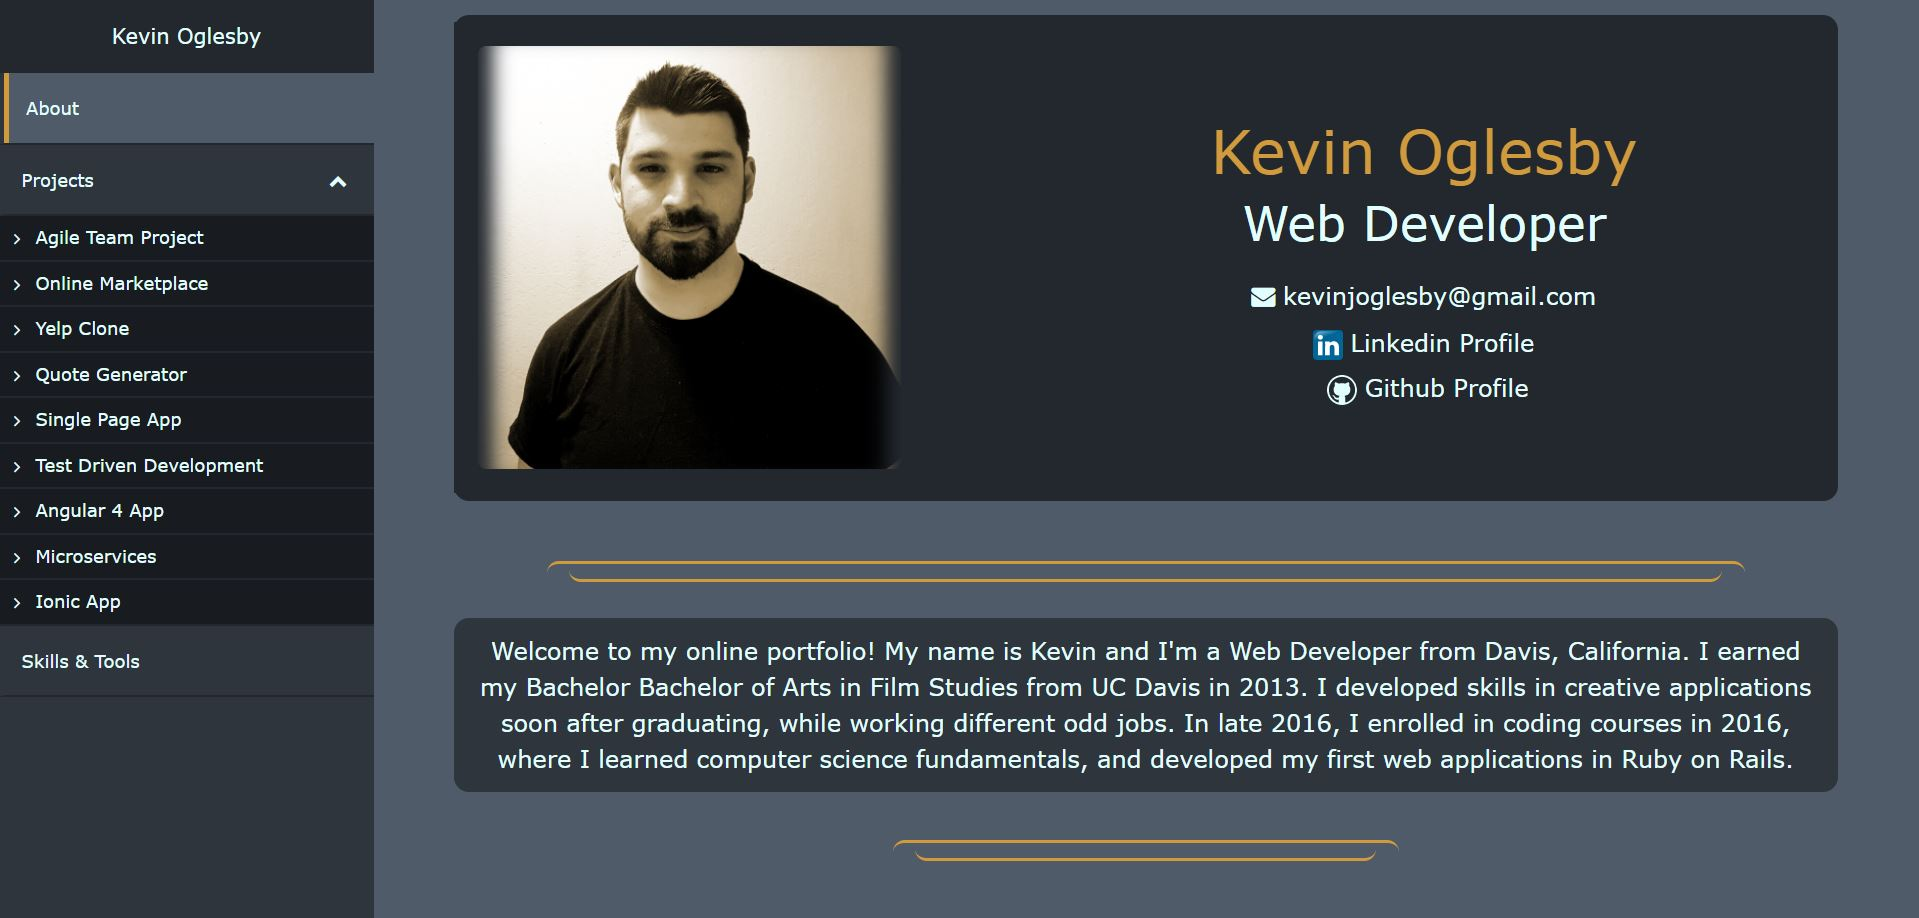
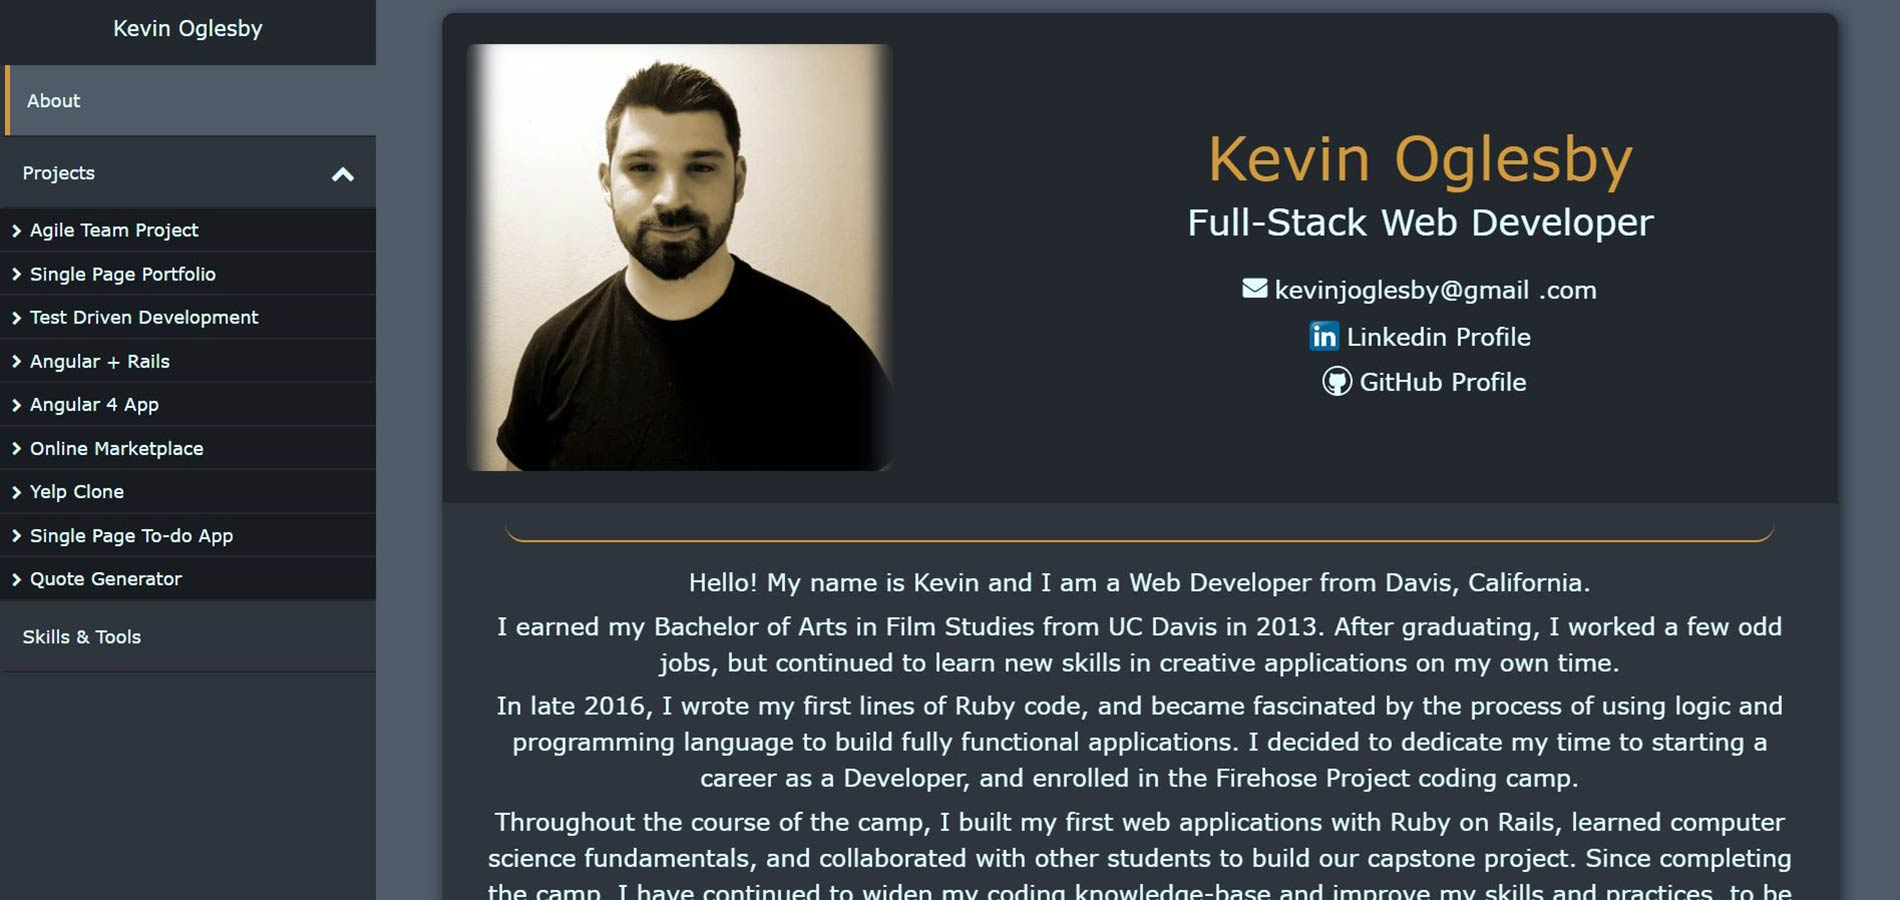
fixed typos, re-wrote bio

diff --git a/src/app/projects/project.service.ts b/src/app/projects/project.service.ts
@@ -22,6 +22,43 @@ export class ProjectService {
       'http://chess-app-8th-rank-pawns.herokuapp.com'
     ),
     new Project(
+      'Single Page Portfolio',
+      "You're looking at this app right now! Whoa, so meta! This app was built from scratch using the Angular 4 framework" +
+      " and features a responsive design which incorporates Angular animations, " +
+      "and makes use of observables and services in order to pass data between components" +
+      " and allow for simple project additions and edits.",
+      '../assets/portfolio.jpg',
+      'https://github.com/koglesby/ng-portfolio',
+      ''
+    ),
+    new Project(
+      'Test Driven Development',
+      'An Instagram clone that was built using industry-standard, test-driven ' +
+      'development following numerous red/green/refactor cycles.',
+      '../assets/grammable.jpg',
+      'https://github.com/koglesby/grammable',
+      'http://grammable-kevin-oglesby.herokuapp.com/'
+    ),
+    new Project(
+      'Angular + Rails',
+      'A freelancing app which combines the Angular front-end framework ' +
+      'with two Rails 5 API apps functioning as a backend. This architecture allows for' +
+      ' automatic updates of page elements without page refresh, while' +
+      ' leveraging the power and flexibility of the Rails.',
+      '../assets/freelance-camp.jpg',
+      'https://github.com/koglesby/freelance-camp',
+      'http://koglesby-freelance-camp.herokuapp.com/home'
+    ),
+    new Project(
+      'Angular 4 App',
+      'A single-page application built using the Angular 4 framework. ' +
+      'Integrated with Firebase to store and retrieve recipe and ' +
+      'shopping list data in real time.',
+      '../assets/reciperoost.jpg',
+      'https://github.com/koglesby/reciperoost',
+      'http://ng-reciperoost-deployment.s3-website-us-west-1.amazonaws.com/'
+    ),
+    new Project(
       'Online Marketplace',
       'A two-sided, video-streaming marketplace platform that' +
       ' features credit card payment capabilities, user role' +
@@ -41,16 +78,7 @@ export class ProjectService {
       'http://nomly-kevin-oglesby.herokuapp.com'
     ),
     new Project(
-      'Quote Generator',
-      'A database-powered quote generator with a mobile-first' +
-      ' design, using the Ruby on Rails framework, HTML, and CSS.' +
-      'Uses Git and GitHub for version control, and launched on Heroku.',
-      '../assets/splurty.png',
-      'https://github.com/koglesby/splurty',
-      'http://splurty-kevin-oglesby.herokuapp.com/'
-    ),
-    new Project(
-      'Single Page App',
+      'Single Page To-do App',
       'This single-page to-do application features a ' +
       'fluid user interface that allows users to rapidly add' +
       ' dynamic content by using JavaScript.',
@@ -59,48 +87,24 @@ export class ProjectService {
       'http://todo-kevin-oglesby.herokuapp.com'
     ),
     new Project(
-      'Test Driven Development',
-      'An Instagram clone that was built using industry-standard, test-driven ' +
-      'development following numerous red/green/refactor cycles.',
-      '../assets/grammable.jpg',
-      'https://github.com/koglesby/grammable',
-      'http://grammable-kevin-oglesby.herokuapp.com/'
-    ),
-    new Project(
-      'Angular 4 App',
-      'A single-page application built using the Angular 4 framework. ' +
-      'Integrated with firebase to store and retrieve recipe and ' +
-      'shopping list data in real time.',
-      '../assets/reciperoost.png',
-      'https://github.com/koglesby/reciperoost',
-      'http://ng-reciperoost-deployment.s3-website-us-west-1.amazonaws.com/'
-    ),
-    new Project(
-      'Microservices',
-      'This project has a front end which was build using the Angular 4 framework' +
-      'and integrates with rails microservices. It is sort of an outline. It uses' +
-      'both client-side and server-side validation',
-      '../assets/freelance-camp.jpg',
-      'https://github.com/koglesby/freelance-camp',
-      'http://koglesby-freelance-camp.herokuapp.com/home'
-    ),
-    new Project(
-      'Ionic App',
-      'This project was built using the Ionic framework, and uses firebase, ' +
-      'and has been compiled into an apk',
-      '../assets/reciperoost-mobile.png',
-      'https://github.com/koglesby/reciperoost-mobile',
-      ''
-    ),
-    new Project(
-      'Single Page Portfolio',
-      "You're looking at this app right now! Whoa, so meta! This app was built from scratch using the Angular 4 framework" +
-      " and incorporates Angular animations, makes use of services in order to pass data to different components, " +
-      "and easily add new projects.",
-      '../assets/portfolio.jpg',
-      'https://github.com/koglesby/ng-portfolio',
-      ''
+      'Quote Generator',
+      'This is the first full Web App that I built. It is a database-powered quote generator with a mobile-first' +
+      ' design, using the Ruby on Rails framework, HTML, and CSS. ' +
+      ' It uses Git and GitHub for version control, and was launched on Heroku.',
+      '../assets/splurty.png',
+      'https://github.com/koglesby/splurty',
+      'http://splurty-kevin-oglesby.herokuapp.com/'
     )
+
+    // new Project(
+    //   'Ionic App',
+    //   'This project was built using the Ionic framework, and uses firebase, ' +
+    //   'and has been compiled into an apk',
+    //   '../assets/reciperoost-mobile.png',
+    //   'https://github.com/koglesby/reciperoost-mobile',
+    //   ''
+    // ),
+
   ];
   
   getProjectsLength() {

diff --git a/src/app/about/about.component.html b/src/app/about/about.component.html
@@ -13,7 +13,8 @@
           </h1>
           <h4>Full-Stack Web Developer</h4>
           <a href="mailto:kevinjoglesby@gmail.com">
-            <i class="fa fa-envelope" aria-hidden="true" style="height: 20px; margin:5px"></i>kevinjoglesby@gmail.com</a>
+            <i class="fa fa-envelope" aria-hidden="true"
+               style="height: 20px; margin:5px"></i>kevinjoglesby@gmail.com</a>
           <br/>
           <a href="https://www.linkedin.com/in/kevin-oglesby-8048aa68/">
             <img src="../../assets/linkedin.svg" style="height: 20px; margin:5px">Linkedin Profile</a>
@@ -27,18 +28,30 @@
 
   <div class="bio-container text-center">
     <hr class="col-11 fancy-rule"/>
+    <!--<p>-->
+      <!--Welcome to my portfolio!-->
+    <!--</p>-->
     <p>
-      Welcome to my portfolio!
+      Hello! My name is Kevin and I am a Web Developer from Davis, California.
+      </p>
+    <p>
+      I earned my Bachelor of Arts in Film Studies from UC Davis in 2013. After graduating,
+      I worked a few odd jobs, but continued to learn new skills in creative applications
+      on my own time.
+      </p>
+    <p>
+      In late 2016, I wrote my first lines of Ruby code, and became fascinated by the process
+      of using logic and programming language to build fully functional applications. I decided to
+      dedicate my time to starting a career as a Developer, and enrolled in the
+      <a href="https://www.thefirehoseproject.com">Firehose Project</a> coding camp.
     </p>
     <p>
-      Earned BA in Film Studies from UC Davis in 2013. I learned several applications from Adobe Creative Suite,
-      as well as some music production software (as a hobby) while I worked unrelated jobs.
-      In late 2016, I wrote my first few lines of Ruby code, and decided to dedicate my time to become a
-      Web Developer. I enrolled in the Firehose Project coding camp, where I created my first Web Apps in
-      Ruby on Rails, learned computer science fundamentals, and collaborated with other students to
-      build our capstone project. Since completing the camp, I have continued to *widen my
-      knowledge-base and improve my skills*, getting to know the Angular front-end framework, more
-      practice with javascript and tools such as Firebase.
+      Throughout the course of the camp, I built my first web applications with
+      Ruby on Rails, learned computer science fundamentals, and collaborated with
+      other students to build our capstone project.
+      Since completing the camp, I have continued to widen my coding knowledge-base
+      and improve my skills and practices, to be best equipped solve problems, write
+      clean effective code, and build awesome applications.
     </p>
     <hr class="col-11 fancy-rule-end"/>
   </div>

diff --git a/src/app/skills/skills.component.html b/src/app/skills/skills.component.html
@@ -28,6 +28,7 @@
         </div>
       </div>
     </div>
+    <br/>
     <div class="row align-items-start">
       <div class="col">
         <img src="../../assets/ruby-on-rails.svg" style="width: 80px; margin-top: 10px; margin-bottom: 10px" >
@@ -80,19 +81,20 @@
 
   <div class="icon-container">
     <div class="row align-items-start design">
-      <div class="col-sm-3 col-6">
+      <div class="col-sm-3 col-6"  style="margin-bottom: 8px;">
         <img src="../../assets/photoshop-icon.svg">
         <div>
           Photoshop
         </div>
       </div>
-      <div class="col-sm-3 col-6">
+      <div class="col-sm-3 col-6" >
         <img src="../../assets/adobe-illustrator-icon.svg">
         <div>
           Adobe Illustrator
         </div>
       </div>
-      <div class="col-sm-3 col-6">
+
+      <div class="col-sm-3 col-6" style="margin-bottom: 5px;">
         <img src="../../assets/after-effects-icon.svg">
         <div>
           After Effects

diff --git a/src/app/app.module.ts b/src/app/app.module.ts
@@ -2,7 +2,6 @@ import { BrowserModule } from '@angular/platform-browser';
 import { NgModule } from '@angular/core';
 import { FormsModule } from '@angular/forms';
 import { HttpModule } from '@angular/http';
-import { NgbModule } from '@ng-bootstrap/ng-bootstrap';
 
 import { AppComponent } from './app.component';
 import { SidebarComponent } from './sidebar/sidebar.component';
@@ -43,7 +42,6 @@ const appRoutes: Routes = [
     FormsModule,
     HttpModule,
     RouterModule.forRoot(appRoutes),
-    NgbModule.forRoot(),
     BrowserAnimationsModule
   ],
   providers: [ProjectService],

diff --git a/src/app/about/about.component.ts b/src/app/about/about.component.ts
@@ -1,13 +1,10 @@
 import { Component, OnInit } from '@angular/core';
-import { routerTransition } from '../projects/router.animations';
+// import { routerTransition } from '../projects/router.animations';
 
 @Component({
   selector: 'app-about',
   templateUrl: './about.component.html',
-  styleUrls: ['./about.component.css'],
-  animations: [
-    routerTransition(),
-  ]
+  styleUrls: ['./about.component.css']
 })
 export class AboutComponent implements OnInit {
 

diff --git a/src/app/projects/projects.component.ts b/src/app/projects/projects.component.ts
@@ -1,13 +1,10 @@
 import { Component, OnInit } from '@angular/core';
-import { routerTransition } from './router.animations';
+// import { routerTransition } from './router.animations';
 
 @Component({
   selector: 'app-projects',
   templateUrl: './projects.component.html',
-  styleUrls: ['./projects.component.css'],
-  animations: [
-    routerTransition()
-  ]
+  styleUrls: ['./projects.component.css']
 })
 export class ProjectsComponent implements OnInit {
   

diff --git a/src/app/skills/skills.component.css b/src/app/skills/skills.component.css
@@ -5,8 +5,6 @@ h1 {
   color: #d19b3d;
   background-color: #23282e;
   border-radius: 5px;
-  border-bottom-left-radius: 5px;
-  border-bottom-right-radius: 5px;
 }
 
 h3 {
@@ -14,7 +12,9 @@ h3 {
 }
 
 .design img {
-  width: 60px;
+  min-width: 60px;
+  max-width: 100px;
+  margin-top: 8px;
 }
 
 .icon-container {

diff --git a/src/index.html b/src/index.html
@@ -2,7 +2,7 @@
 <html>
 <head>
   <meta charset="utf-8">
-  <title>NgPortfolio</title>
+  <title>Kevin Oglesby</title>
   <base href="/">
 
   <meta name="viewport" content="width=device-width, initial-scale=1">

diff --git a/src/app/skills/skills.component.ts b/src/app/skills/skills.component.ts
@@ -1,5 +1,4 @@
 import { Component, OnInit } from '@angular/core';
-import { Item } from './item.model';
 
 @Component({
   selector: 'app-skills',
